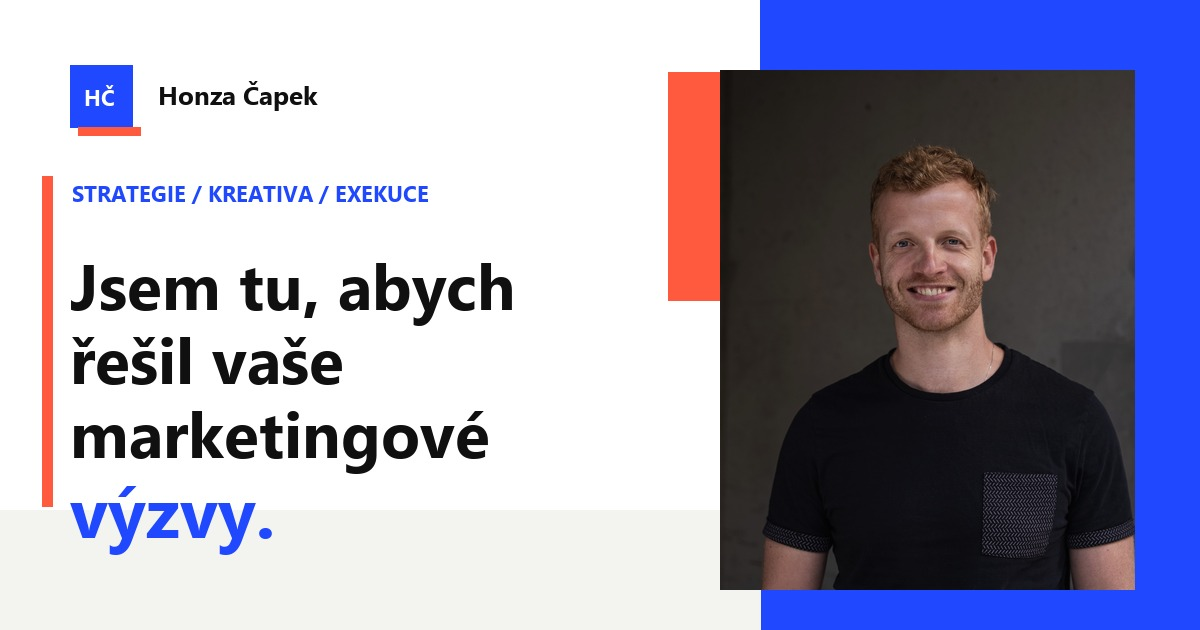
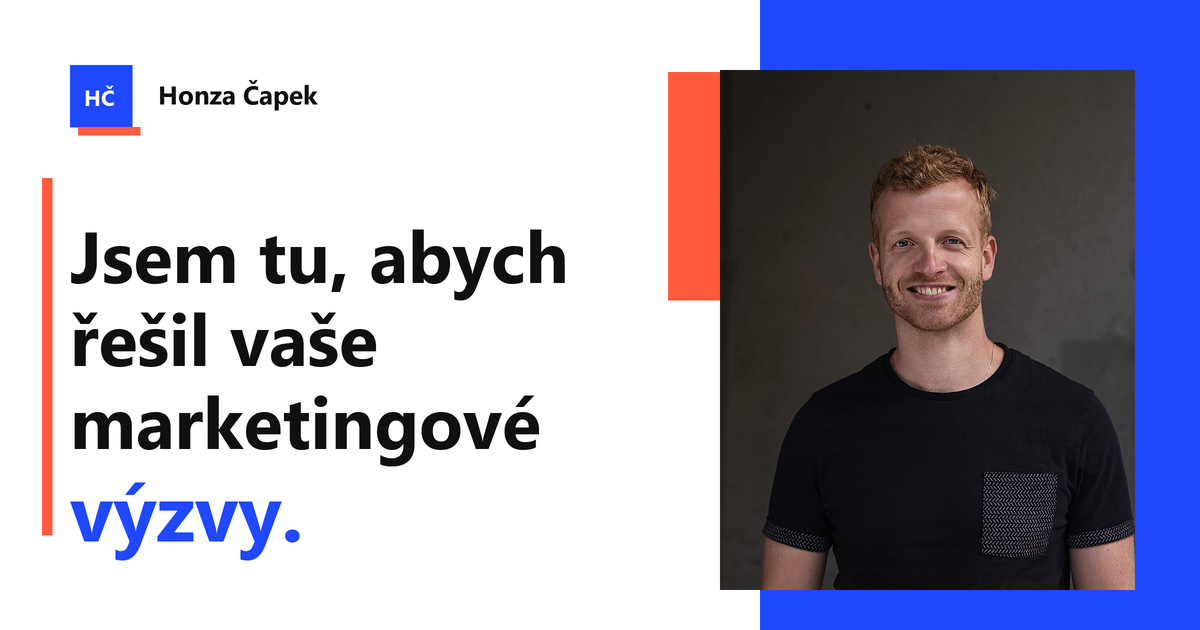
Add files via upload

diff --git a/index.html b/index.html
@@ -3,10 +3,10 @@
 <head>
   <meta charset="utf-8">
   <meta name="viewport" content="width=device-width, initial-scale=1">
-  <title>Honza Čapek | Strategie, kreativa, exekuce</title>
+  <title>Honza Čapek | Marketingová komunikace, která funguje i baví</title>
   <meta name="description" content="Honza Čapek pomáhá značkám řešit marketingové potřeby, výzvy, problémy i sny. Strategie, kreativa a exekuce od zadání po realizaci.">
   <meta name="author" content="Honza Čapek">
-  <meta property="og:title" content="Honza Čapek | Strategie, kreativa, exekuce">
+  <meta property="og:title" content="Honza Čapek | Marketingová komunikace, která funguje i baví">
   <meta property="og:description" content="Jsem tu, abych řešil vaše marketingové potřeby, výzvy, problémy i sny.">
   <meta property="og:type" content="website">
   <meta property="og:locale" content="cs_CZ">
@@ -18,7 +18,7 @@
   <meta property="og:image:height" content="630">
   <meta property="og:image:type" content="image/jpeg">
   <meta name="twitter:card" content="summary_large_image">
-  <meta name="twitter:title" content="Honza Čapek | Strategie, kreativa, exekuce">
+  <meta name="twitter:title" content="Honza Čapek | Marketingová komunikace, která funguje i baví">
   <meta name="twitter:description" content="Jsem tu, abych řešil vaše marketingové potřeby, výzvy, problémy i sny.">
   <meta name="twitter:image" content="https://www.honzacapek.cz/og-image.jpg">
   <link rel="canonical" href="https://www.honzacapek.cz/">
